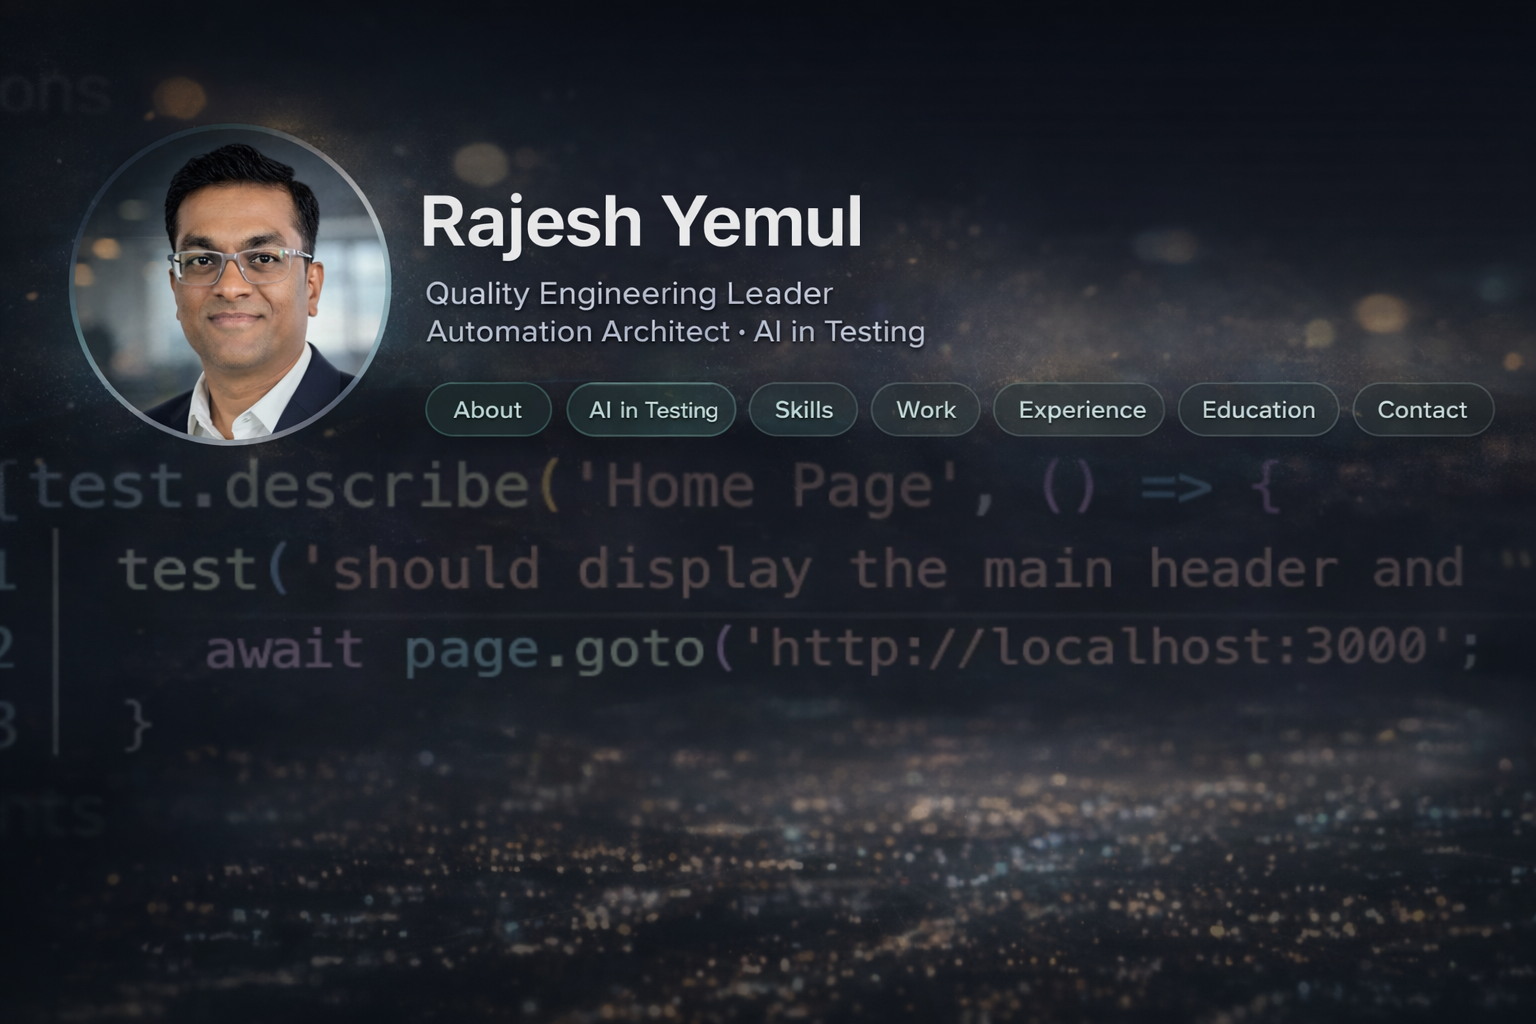
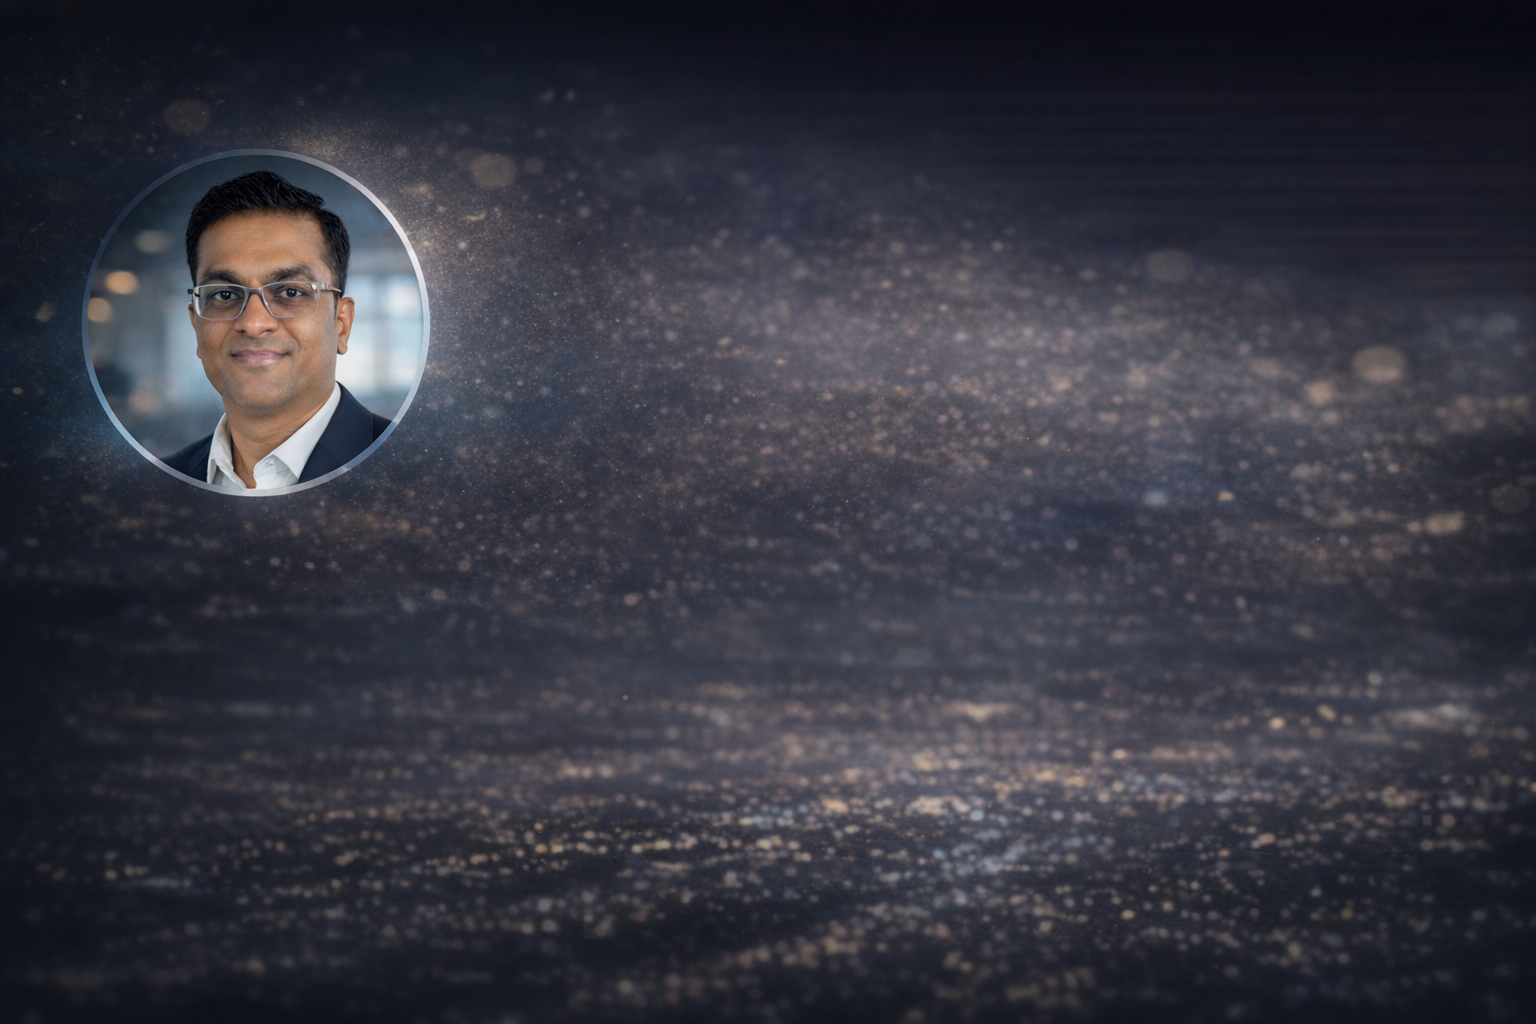
updated index

diff --git a/style.css b/style.css
@@ -35,8 +35,8 @@ body {
 
 .hero {
   position: relative;
-  height: 75vh;
-  background: url("hero-new-bg.png") center center / cover no-repeat;
+  height: 70vh;
+  background: url("hero-bg.png") center center / cover no-repeat;
   display: flex;
   align-items: center;
 }
